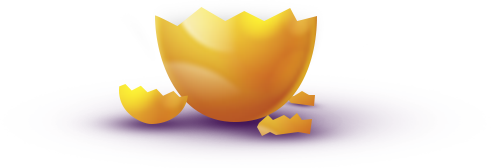
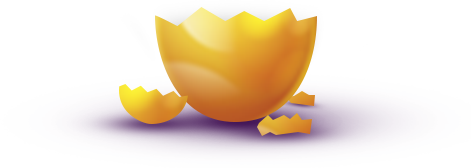
添加背景图和活动规则

Changed region(s): [[0.2378, 0.0298, 0.7134, 0.8333], [0.3864, 0.3869, 0.5053, 0.5357]]

diff --git a/砸蛋/style.css b/砸蛋/style.css
@@ -14,7 +14,6 @@ body {
   font-family: "Microsoft YaHei";
   color: white;
   font-size: 12px;
-  /* background: url('img/bg.jpg') no-repeat; */
   overflow: hidden;
 }
 
@@ -22,18 +21,87 @@ a {
   text-decoration: none;
 }
 
+.bg {
+  width: 100%;
+  height: 667px;
+  height: 100vh;
+}
+
+.rule {
+  position: absolute;
+  top: 55px;
+  left: 6px;
+  padding: 8px 18px;
+  border-radius: 30px;
+  font-size: 16px;
+  color: white;
+  background: #de0b1b;
+}
+
+.rule_box {
+  display: none;
+  position: absolute;
+  top: 20%;
+  left: 10%;
+  width: 80%;
+  margin: 0 auto;
+  z-index: 300;
+}
+
+.close {
+  position: absolute;
+  top: 0;
+  right: 0;
+  width: 40px;
+}
+
+.text_wrap {
+  position: absolute;
+  top: 40px;
+  left: 10%;
+  width: 75%;
+  color: black;
+
+}
+
+.text_wrap h3 {
+  font-size: 22px;
+  text-align: center;
+  padding: 10px 0;
+}
+
+.text_wrap p {
+  font-size: 14px;
+}
+
+@media screen and (max-width: 360px) {
+  .rule {
+    top: 50px;
+    padding: 6px 16px;
+    font-size: 14px;
+  }
+}
+
 .wrap {
-  position: relative;
-  top: 200px;
-  width: 320px;
+  position: absolute;
+  top: 155px;
+  top: 23vh;
+  width: 100%;
   height: 300px;
   margin: 0 auto;
+}
+
+@media screen and (max-width: 360px) {
+  .wrap {
+    top: 100px;
+    top: 18vh;
+  }
 }
 
 .hammer {
   position: absolute;
   top: 0;
-  right: 10%;
+  right: 5%;
   width: 156px;
   height: 118px;
   background: url('img/hammer.png') no-repeat;
@@ -43,6 +111,7 @@ a {
 
 .animate {
   animation: hammered 1.6s linear infinite;
+  -webkit-animation: hammered 1.6s linear infinite;
 }
 
 .egg {
@@ -61,7 +130,7 @@ a {
   background: url('img/egg-open.png');
   background-repeat: no-repeat;
   background-position: center;
-  background-size: 100%;
+  background-size: 110%;
 }
 
 .prize {
@@ -69,21 +138,27 @@ a {
   top: 100px;
   left: 50%;
   margin-left: -50px;
-  width: 90px;
+  width: 28%;
   height: auto;
   display: none;
 }
 
+@media screen and (max-width: 360px) {
+  .prize {
+    width: 34%;
+  }
+}
+
 .window {
   position: absolute;
-  top: 150px;
-  left: 5px;
-  width: 310px;
+  top: 166px;
+  left: 10%;
+  width: 80%;
   text-align: center;
   padding: 20px 0;
   background: rgba(0, 0, 0, .4);
   border-radius: 5px;
-  z-index: 999;
+  z-index: 200;
   display: none;
 }
 
@@ -97,6 +172,11 @@ a {
   border-radius: 30px;
 }
 
+@media screen and (max-width: 360px) {
+  .box {font-size: 18px;}
+}
+
+
 .box a {
   color: white;
 }
@@ -105,5 +185,11 @@ a {
   0% {transform: translate(0, 0)}
   50% {transform: translate(30px, -40px)}
   100% {transform: translate(0, 0)}
+}
+
+@-webkit-keyframes hammered {
+  0% {-webkit-transform: translate(0, 0)}
+  50% {-webkit-transform: translate(30px, -40px)}
+  100% {-webkit-transform: translate(0, 0)}
 }
 

diff --git a/砸蛋/js/index.js b/砸蛋/js/index.js
@@ -18,7 +18,7 @@ $(function() {
 		dansui = 0
 		setTimeout(function () {
 			prize.show()
-					.animate({top: '50px'}, 1200)
+					.animate({top: '32px'}, 1200)
 		}, 600)
 		setTimeout(function () {
 			wd.show(300)
@@ -33,6 +33,14 @@ $(function() {
 		$(hammer).css('display', 'block')
 						.addClass('animate')
 		dansui = 1
+	});
+
+	$('.rule').click(function() {
+		$('.rule_box').slideToggle(300)
+	});
+
+	$('.close').click(function() {
+		$('.rule_box').slideUp(300)
 	});
 
 })

diff --git a/砸蛋/index.html b/砸蛋/index.html
@@ -12,6 +12,20 @@
 	<link rel="stylesheet" href="style.css">
 </head>
 <body>
+<div class="bg">
+	<img src="img/bg.jpg" alt="bg">
+	<div class="rule">活动规则</div>
+	<div class="rule_box">
+		<img src="img/wd-bg.png">
+		<img src="img/close.png" class="close">
+		<div class="text_wrap">
+			<h3>活动规则</h3>
+			<p>
+				这里写规则
+			</p>
+		</div>
+	</div>
+</div>
 
 <div class="wrap">
 	<div class="hammer animate"></div>
